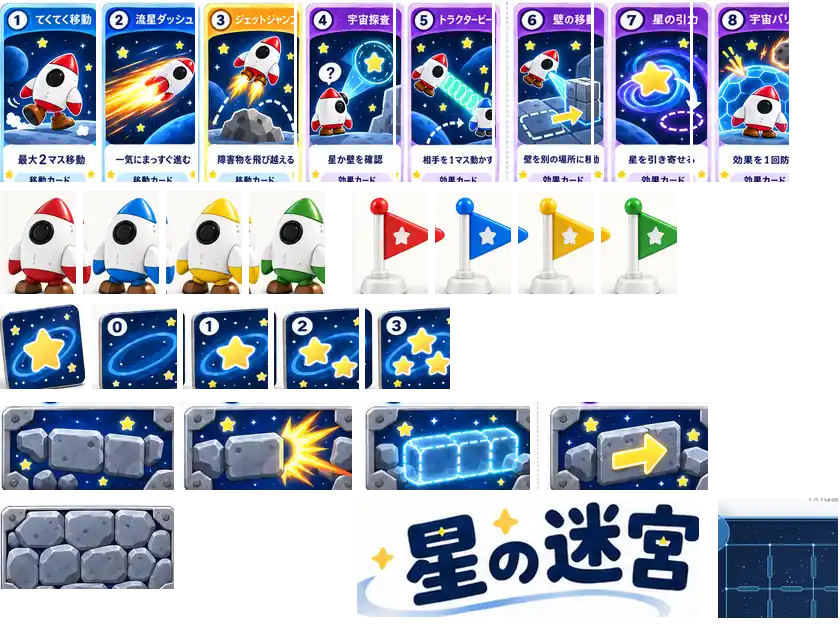
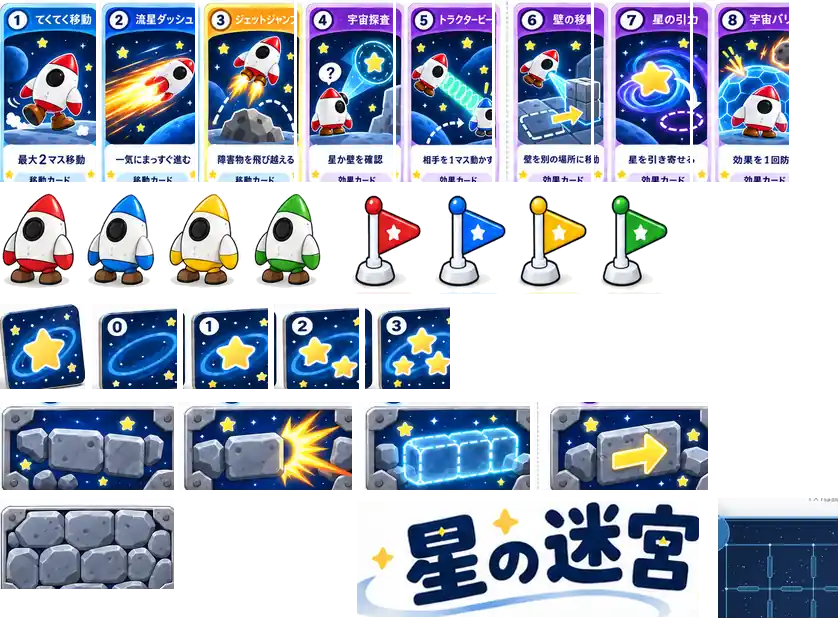
Integrate approved rocket, flag, star, wall and action-card artwork into Web prototype

Changed region(s): [[0.0, 0.304, 0.8048, 0.4864]]

diff --git a/style.css b/style.css
@@ -74,3 +74,86 @@ footer{max-width:1120px;margin:auto;padding:0 16px 30px;color:#96a9c8;font-size:
 .effect-group h3{color:#e1c8ff}
 .hand-group .tiny{font-size:.72rem;font-weight:400;color:#c7d4ee;white-space:nowrap}
 @media(max-width:400px){.hand-group{padding:9px 7px}.hand-group h3{font-size:.87rem}.hand-group .tiny{font-size:.68rem}}
+
+/* Visually approved tabletop art, packed in one lightweight transparent WEBP.
+   Geometry-based sprites ensure all states use the same unchanged source artwork. */
+.sprite{display:inline-block;flex:none;box-sizing:border-box;background-image:url("./assets/art.webp");background-repeat:no-repeat;pointer-events:none;user-select:none}
+.sprite-card_walk{background-size:875% 343.4066%;background-position:0% 0%;aspect-ratio:96/182}
+.sprite-card_dash{background-size:875% 343.4066%;background-position:13.3065% 0%;aspect-ratio:96/182}
+.sprite-card_jump{background-size:875% 343.4066%;background-position:26.6129% 0%;aspect-ratio:96/182}
+.sprite-card_scan{background-size:875% 343.4066%;background-position:39.9194% 0%;aspect-ratio:96/182}
+.sprite-card_tractor{background-size:875% 343.4066%;background-position:53.2258% 0%;aspect-ratio:96/182}
+.sprite-card_wallmove{background-size:875% 343.4066%;background-position:66.5323% 0%;aspect-ratio:96/182}
+.sprite-card_pull{background-size:875% 343.4066%;background-position:79.8387% 0%;aspect-ratio:96/182}
+.sprite-card_shield{background-size:875% 343.4066%;background-position:93.1452% 0%;aspect-ratio:96/182}
+.sprite-rocket_red{background-size:1105.2632% 606.7961%;background-position:0% 36.59%;aspect-ratio:76/103}
+.sprite-rocket_blue{background-size:1105.2632% 606.7961%;background-position:10.8639% 36.59%;aspect-ratio:76/103}
+.sprite-rocket_yellow{background-size:1105.2632% 606.7961%;background-position:21.7277% 36.59%;aspect-ratio:76/103}
+.sprite-rocket_green{background-size:1105.2632% 606.7961%;background-position:32.5916% 36.59%;aspect-ratio:76/103}
+.sprite-flag_red{background-size:1105.2632% 606.7961%;background-position:46.0733% 36.59%;aspect-ratio:76/103}
+.sprite-flag_blue{background-size:1105.2632% 606.7961%;background-position:56.9372% 36.59%;aspect-ratio:76/103}
+.sprite-flag_yellow{background-size:1105.2632% 606.7961%;background-position:67.801% 36.59%;aspect-ratio:76/103}
+.sprite-flag_green{background-size:1105.2632% 606.7961%;background-position:78.6649% 36.59%;aspect-ratio:76/103}
+.sprite-star_hidden{background-size:988.2353% 735.2941%;background-position:0% 56.2963%;aspect-ratio:85/85}
+.sprite-star_0{background-size:988.2353% 735.2941%;background-position:12.1854% 56.2963%;aspect-ratio:85/85}
+.sprite-star_1{background-size:988.2353% 735.2941%;background-position:24.2384% 56.2963%;aspect-ratio:85/85}
+.sprite-star_2{background-size:988.2353% 735.2941%;background-position:36.2914% 56.2963%;aspect-ratio:85/85}
+.sprite-star_3{background-size:988.2353% 735.2941%;background-position:48.3444% 56.2963%;aspect-ratio:85/85}
+.sprite-wall_solid{background-size:482.7586% 710.2273%;background-position:0% 74.8603%;aspect-ratio:174/88}
+.sprite-wall_bounce{background-size:482.7586% 710.2273%;background-position:26.7267% 74.8603%;aspect-ratio:174/88}
+.sprite-wall_phantom{background-size:482.7586% 710.2273%;background-position:53.4535% 74.8603%;aspect-ratio:174/88}
+.sprite-wall_oneway{background-size:482.7586% 710.2273%;background-position:80.1802% 74.8603%;aspect-ratio:174/88}
+.sprite-wall_hidden{background-size:482.7586% 694.4444%;background-position:0% 93.271%;aspect-ratio:174/90}
+.sprite-logo{background-size:245.614% 538.7931%;background-position:71.6867% 98.4283%;aspect-ratio:342/116}
+
+/* Quiet, low-cost, printed-board appearance: walls remain on edges, not on cells. */
+.board{gap:2px;padding:7px;border-color:#668eb5;background:
+ radial-gradient(circle at 20% 15%,#edf7ff8c 0 1px,transparent 2px) 0 0/43px 56px,
+ radial-gradient(circle at 80% 65%,#a9d4ff7d 0 1px,transparent 2px) 0 0/67px 59px,
+ radial-gradient(120% 80% at 15% 100%,#143564 0%,transparent 65%),#09172f}
+.cell{background:linear-gradient(145deg,#19335188,#11294374);border:1px solid #4a8fb7a3;border-radius:2px;isolation:isolate}
+.cell:hover{background:#224c7088}
+.cell.edge-right:before,.cell.edge-bottom:after{content:"";position:absolute;z-index:2;border:1px solid #7ac0e58a;border-radius:10px;background:#173753;pointer-events:none}
+.cell.edge-right:before{width:6px;height:36%;top:32%;right:-5px}
+.cell.edge-bottom:after{height:6px;width:36%;left:32%;bottom:-5px}
+.cell .star-card{position:absolute;z-index:1;width:64%;height:auto;aspect-ratio:1;top:50%;left:50%;transform:translate(-50%,-50%);filter:drop-shadow(0 1px 3px #000b)}
+.cell .star-owned{opacity:.9}
+.cell .rocket-on-cell{position:absolute;z-index:5;height:77%;width:auto;aspect-ratio:76/103;bottom:3%;left:50%;transform:translateX(-50%);filter:drop-shadow(0 2px 2px #0009)}
+.cell .rocket-on-flag{height:70%;left:38%}
+.cell .flag-on-star{position:absolute;z-index:3;height:64%;width:auto;aspect-ratio:76/103;top:2%;right:0;filter:drop-shadow(0 2px 3px #0009)}
+.cell .starlabel{z-index:7;top:1px;left:2px;font-size:clamp(.46rem,.95vw,.74rem);padding:1px 3px;background:#07182ed9;border:1px solid #fff4;border-radius:5px;color:#ffdd6b}
+.shield-badge{position:absolute;right:2px;bottom:0;z-index:8;font-size:.75rem;pointer-events:none}
+.wall{box-sizing:border-box;background:transparent!important;color:transparent!important;border:0!important;padding:0!important;box-shadow:none!important;z-index:8;overflow:visible}
+.wall.e{width:11px;height:50%;right:-7px;top:25%}
+.wall.s{height:11px;width:50%;left:25%;bottom:-7px}
+.wall .wall-visual{display:block;position:absolute;top:50%;left:50%;width:100%;height:100%;transform:translate(-50%,-50%);border-radius:3px;filter:drop-shadow(0 1px 1px #0008)}
+.wall.e .wall-visual{width:310%;height:38%;transform:translate(-50%,-50%) rotate(90deg)}
+.wall .wall-arrow{position:absolute;inset:0;z-index:3;display:grid;place-items:center;color:#fff;text-shadow:0 0 4px #07122d;font-size:.72rem}
+.wall.open{filter:drop-shadow(0 0 2px #bdeeff)}
+.wall:focus-visible{outline:2px solid #ffe17d;outline-offset:2px}
+.player-score{display:inline-flex;align-items:center;gap:4px}
+.inline-flag{width:15px;aspect-ratio:76/103;height:auto}
+.hand .card-choice{min-height:0;padding:5px 4px 7px;display:flex;justify-content:flex-start;align-items:center;gap:4px;border-radius:10px;overflow:hidden}
+.hand .card-choice .card-art{display:block;width:min(100%,115px);height:auto;aspect-ratio:96/182;border-radius:6px;box-shadow:0 2px 8px #0008}
+.hand .card-choice .card-name{line-height:1.2;font-weight:700;font-size:clamp(.63rem,1vw,.84rem);text-align:center}
+.hand .card-choice.move{background:#18496c;border:1px solid #59b5e7}
+.hand .card-choice.effect{background:#412553;border:1px solid #a16ed0}
+.hand .card-choice.active{box-shadow:0 0 0 3px #f5ce69}
+.hand-group .hand{grid-template-columns:repeat(3,minmax(0,1fr))}
+.home-rockets{display:flex;align-items:end;justify-content:center;gap:16px;padding:9px 6px;margin:8px 0;border:1px solid #5977a655;border-radius:12px;background:linear-gradient(180deg,#11294699,#14294466)}
+.home-rocket{width:13%;max-width:57px;height:auto;aspect-ratio:76/103;filter:drop-shadow(0 2px 3px #0008)}
+@media(max-width:790px){
+ .board{gap:2px;padding:5px}
+ .wall.e{width:9px;right:-6px}
+ .wall.s{height:9px;bottom:-6px}
+ .cell.edge-right:before{width:5px;right:-4px}
+ .cell.edge-bottom:after{height:5px;bottom:-4px}
+ .cell .rocket-on-cell{height:75%}
+ .cell .flag-on-star{height:60%}
+}
+@media(max-width:370px){
+ .hand-group .hand{grid-template-columns:repeat(3,minmax(0,1fr))}
+ .hand-group .card-choice{padding:3px 2px 5px}
+ .hand-group .card-choice .card-name{font-size:.64rem}
+ .cell .starlabel{font-size:.46rem}
+}

diff --git a/game.js b/game.js
@@ -174,25 +174,41 @@ function placeWall(i){
 function knownStar(s){return G.phase==="ended"||s.seen.includes(G.current);}
 function knownWall(w){return G.phase==="ended"||w.faceUp||w.seen.includes(G.current);}
 function wallMark(w){return knownWall(w)?wallIcons[w.kind]:"?";}
+const spriteKeyForPlayer=id=>["blue","red","green","yellow"][id];
+const sprite=(key,extra="")=>'<span class="sprite sprite-'+key+(extra?" "+extra:"")+'" aria-hidden="true"></span>';
 function wallHtml(i,j,where){
- let k=edge(i,j),w=G.walls[k];if(!w)return "";
- return '<button type="button" class="wall '+where+' '+(w.faceUp?"open":"unknown")+'" data-wall="'+k+'" title="壁を調べる／選ぶ" aria-label="'+(knownWall(w)?wallLabels[w.kind]:"秘密の壁")+'">'+wallMark(w)+'</button>';
+ const k=edge(i,j),w=G.walls[k];if(!w)return "";
+ // Hidden tiles always show their common stone back—even to the placer.
+ const visible=w.faceUp||G.phase==="ended";
+ const visual=visible?"wall_"+w.kind:"wall_hidden";
+ const label=visible?wallLabels[w.kind]:"秘密の壁";
+ const arrow=visible&&w.kind==="oneway"?'<span class="wall-arrow">'+(where==="e"?"→":"↓")+'</span>':"";
+ return '<button type="button" class="wall '+where+' '+(visible?"open":"unknown")+'" data-wall="'+k+'" title="'+label+'" aria-label="'+label+'">'+sprite(visual,"wall-visual")+arrow+'</button>';
 }
 function renderBoard(){
  if(!G)return;
  $("#board").style.setProperty("--n",G.n);
  let h="";
  for(let i=0;i<G.n*G.n;i++){
-  let p=G.players.find(p=>p.pos===i),s=G.stars[i],c="",c2="",starlabel="";
+  const p=G.players.find(p=>p.pos===i),s=G.stars[i],hasRight=i%G.n!==G.n-1,hasBottom=i<G.n*(G.n-1);
+  let content="",aria=(i+1)+"番のマス";
   if(s){
-   if(s.claimed!==null){c='<span class="token star claimed" style="color:'+colours[s.claimed]+'">⚑</span>';}
-   else c='<span class="token star">✦</span>';
-   if(knownStar(s))starlabel='<span class="starlabel">'+s.value+'点</span>';
+   const shown=G.phase==="ended"?"star_"+s.value:"star_hidden";
+   content+=sprite(shown,"star-card"+(s.claimed!==null?" star-owned":""));
+   if(s.claimed!==null){
+    content+=sprite("flag_"+spriteKeyForPlayer(s.claimed),"flag-on-star");
+    aria+="、"+human(G.players[s.claimed])+"が獲得した星";
+   }else aria+="、秘密の星";
+   if(knownStar(s))content+='<span class="starlabel">'+s.value+'点</span>';
   }
-  if(p){c2='<span class="token '+(s&&s.claimed!==null?"dual":"")+'" style="color:'+colours[p.id]+'">🚀'+(p.shield?"<span class=playerdot>🛡</span>":"")+'</span>';}
-  h+='<div class="cell" tabindex="0" role="button" data-cell="'+i+'" aria-label="'+(i+1)+'番のマス">'+c+starlabel+c2;
-  if(i%G.n!==G.n-1)h+=wallHtml(i,i+1,"e");
-  if(i<G.n*(G.n-1))h+=wallHtml(i,i+G.n,"s");
+  if(p){
+   content+=sprite("rocket_"+spriteKeyForPlayer(p.id),"rocket-on-cell"+(s&&s.claimed!==null?" rocket-on-flag":""));
+   if(p.shield)content+='<span class="shield-badge" aria-label="バリア展開中">🛡</span>';
+   aria+="、"+human(p);
+  }
+  h+='<div class="cell '+(hasRight?"edge-right ":"")+(hasBottom?"edge-bottom":"")+'" tabindex="0" role="button" data-cell="'+i+'" aria-label="'+aria+'">'+content;
+  if(hasRight)h+=wallHtml(i,i+1,"e");
+  if(hasBottom)h+=wallHtml(i,i+G.n,"s");
   h+='</div>';
  }
  $("#board").innerHTML=h;
@@ -200,7 +216,7 @@ function renderBoard(){
 function renderScore(){
  let h='<div class="row between"><b>プレイヤーの確保数</b><span class="small muted">点数は最終公開まで秘密</span></div><div class="row">';
  for(const p of G.players){let f=Object.values(G.stars).filter(x=>x.claimed===p.id).length;
- h+='<span class="pill"><span style="color:'+colours[p.id]+'">⚑</span> '+human(p)+'：'+f+'個'+(p.penalty?" / 減点"+p.penalty:"")+'</span>';}
+ h+='<span class="pill player-score">'+sprite("flag_"+spriteKeyForPlayer(p.id),"inline-flag")+' '+human(p)+'：'+f+'個'+(p.penalty?" / 減点"+p.penalty:"")+'</span>';}
  $("#score").innerHTML=h+"</div>";
 }
 function dirBtns(prefix){
@@ -215,7 +231,7 @@ function renderPlacement(){
  else h+='<p class="note">① 壁を選ぶ → ② 方向（↑→↓←）を選ぶ → ③ その手前のマスをタップ。壁の正体は相手に秘密です。'+(G.ruleset==="standard"?"一方通行は右・下の正方向のみ通れます。":"")+'</p>'+dirBtns();
  return h;
 }
-function cardBtn(c,i){let def=defs[c];return '<button class="btn '+def.group+' '+(G.active&&G.active.index===i?"active":"")+'" data-card="'+i+'" title="'+def.desc+'"><span class="cardicon">'+def.icon+'</span>'+def.name+'</button>';}
+function cardBtn(c,i){const def=defs[c];return '<button class="btn card-choice '+def.group+' '+(G.active&&G.active.index===i?"active":"")+'" data-card="'+i+'" aria-label="'+def.name+"："+def.desc+'" title="'+def.desc+'">'+sprite("card_"+c,"card-art")+'<span class="card-name">'+def.name+'</span></button>';}
 function blockedPublic(p){
  for(let d=0;d<4;d++){
   let j=neighbor(p.pos,d);if(j<0)continue;
@@ -269,6 +285,7 @@ function render(){
  if(!G){$("#board").innerHTML="";$("#status").innerHTML='<strong>新しいゲーム</strong>';$("#score").innerHTML="";$("#log").innerHTML="";
  $("#side").innerHTML='<h2 id="startHeading">🚀 まずは1人で遊ぼう</h2><p class="small muted" id="startDescription">CPUと1対1で対戦できます。まずは簡単なスターターがおすすめです。</p>'+
  '<div class="starter-selection"><label for="gameSet"><strong>ゲームセット</strong></label><select id="gameSet"><option value="starter" selected>🌟 スターターセット（おすすめ）</option><option value="standard">スタンダード（従来版）</option></select><div class="starter-intro" id="setDescription"><strong>カード5種類・壁3種類</strong><p>🚀 移動山札：てくてく・流星ダッシュ・ジェットジャンプ（手札3枚）<br>✨ 効果山札：宇宙探査・トラクタービーム（手札2枚）<br>壁：通常・反発・幻影</p><small>最初は1人＋CPUで練習できます。遊び方は同じ、複雑なカードを減らしたセットです。</small></div></div>'+
+ '<div class="home-rockets" aria-label="4色のロケット">'+["red","blue","yellow","green"].map(c=>sprite("rocket_"+c,"home-rocket")).join("")+'</div>'+ 
  '<div class="formgrid"><label>遊び方<select id="playMode"><option value="cpu2" selected>1人で遊ぶ・CPU1体（おすすめ）</option><option value="cpu3">1人で遊ぶ・CPU2体</option><option value="cpu4">1人で遊ぶ・CPU3体</option><option value="local">友達と遊ぶ・同じ端末で交代</option></select></label><label id="friendCountLabel" hidden>友達と遊ぶ場合の人数<select id="playerCount"><option value="2" selected>2人</option><option value="3">3人</option><option value="4">4人</option></select></label><label>盤面サイズ（検証用）<select id="boardSize"><option value="7" selected>7×7</option><option value="8">8×8</option><option value="9">9×9</option></select></label></div>'+
  '<button class="btn primary start-main" id="start">🚀 スターターでゲームスタート</button><div class="note">開発中の試遊版です。最終点数は星を公開するまで秘密。遠隔オンライン対戦と保存は未実装です。</div>';
  return;}

diff --git a/index.html b/index.html
@@ -1,11 +1,11 @@
 <!doctype html>
 <html lang="ja"><head><meta charset="utf-8"><meta name="viewport" content="width=device-width,initial-scale=1">
-<title>星の迷宮 | STANDARD 試作版</title><meta name="robots" content="noindex,nofollow,noarchive"><meta name="description" content="星の点数を隠し、壁を仕掛け、ロケットで星を確保する対戦ボードゲームの試作版。">
-<link rel="stylesheet" href="./style.css"></head>
-<body><header class="top"><div class="header-actions"><button type="button" id="backToTitle" class="btn soft back-button" hidden aria-label="タイトル画面へ戻る">← タイトルへ戻る</button></div><p class="eyebrow">HOSHI NO MEIKYU / PROTOTYPE 0.1</p><h1>✦ 星の迷宮</h1><p class="lead">星を隠し、道を惑わせ、相手の一手を読み切れ。</p></header>
+<title>星の迷宮 | イラスト付きWeb試作版</title><meta name="robots" content="noindex,nofollow,noarchive"><meta name="description" content="星の点数を隠し、壁を仕掛け、ロケットで星を確保する対戦ボードゲームの試作版。">
+<link rel="preload" href="./assets/art.webp" as="image" type="image/webp"><link rel="stylesheet" href="./style.css"></head>
+<body><header class="top"><div class="header-actions"><button type="button" id="backToTitle" class="btn soft back-button" hidden aria-label="タイトル画面へ戻る">← タイトルへ戻る</button></div><p class="eyebrow">HOSHI NO MEIKYU / ILLUSTRATED WEB PROTOTYPE</p><h1>✦ 星の迷宮</h1><p class="lead">星を隠し、道を惑わせ、相手の一手を読み切れ。</p></header>
 <main class="shell">
-<section class="panel"><div id="status"></div><div id="board" class="board" aria-label="ゲーム盤"></div><div class="legend"><span>🚀 ロケット</span><span>✦ 裏向きの星</span><span>⚑ 確保済み</span><span>？ 秘密の壁</span></div><div id="score"></div></section>
+<section class="panel"><div id="status"></div><div id="board" class="board" aria-label="ゲーム盤"></div><div class="legend"><span>4色のロケット＝プレイヤー</span><span>黄色の星カード＝秘密の星</span><span>旗＝獲得した星</span><span>石壁模様＝未公開の壁</span></div><div id="score"></div></section>
 <section class="panel"><div id="side"></div><div id="log"></div></section>
-</main><footer>星の迷宮 STANDARD / 開発中の試作版。点数・壁・カードのバランスは未調整です。<p>この端末での交代プレイ用。画面を渡す前に「手番終了」を押してください。端末の開発者ツール等から秘密情報を完全に保護する仕組みではありません。</p></footer>
+</main><footer>星の迷宮 / イラスト付き試作版（スターター・スタンダード）。点数・壁・カードのバランスは未調整です。<p>この端末での交代プレイ用。画面を渡す前に「手番終了」を押してください。端末の開発者ツール等から秘密情報を完全に保護する仕組みではありません。</p></footer>
 <div id="handoff" class="overlay" hidden role="dialog" aria-modal="true" aria-labelledby="modaltitle"><div class="modal"><h2 id="modaltitle">画面を交代してください</h2><p id="modaltext"></p><button id="reveal" class="btn primary">自分の手番を開く</button><button id="backFromHandoff" type="button" class="btn soft" hidden>← タイトルへ戻る</button></div></div>
 <script src="./game.js" defer></script><script src="./cpu.js" defer></script></body></html>
